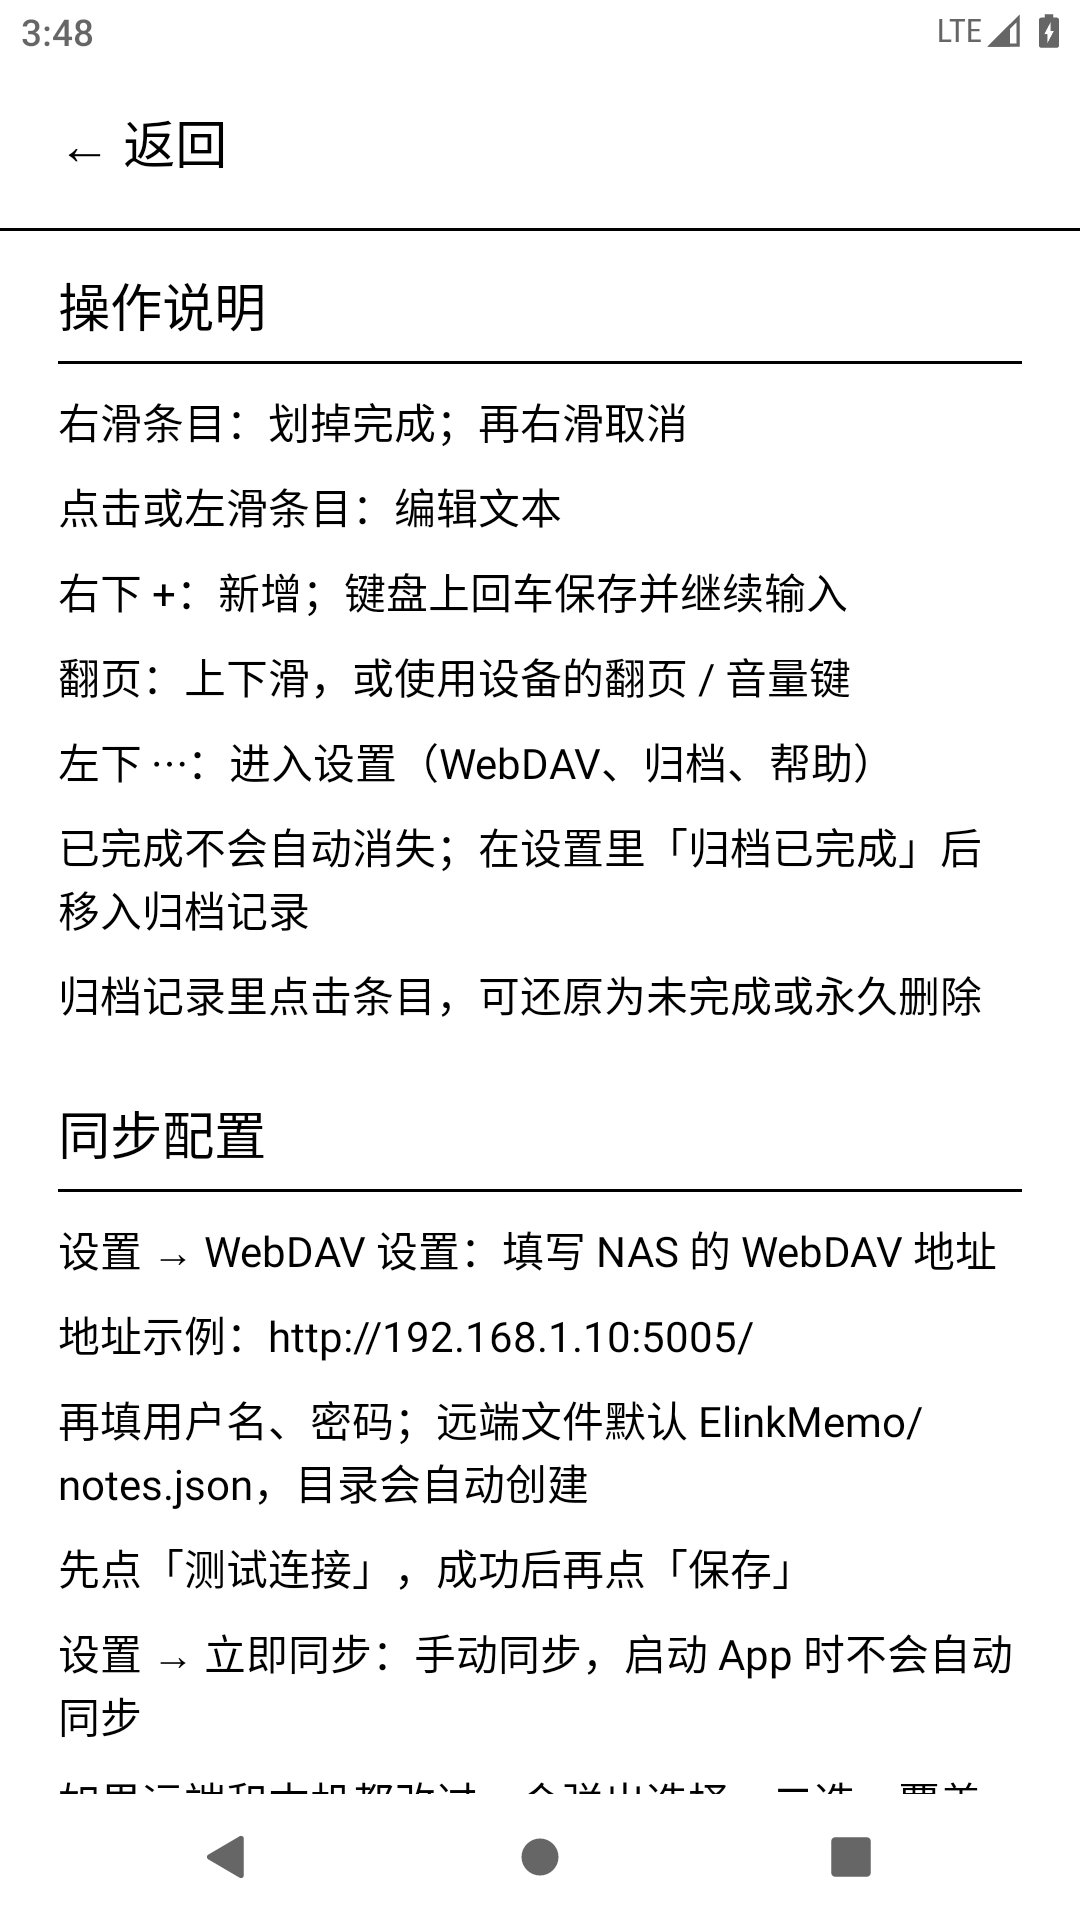
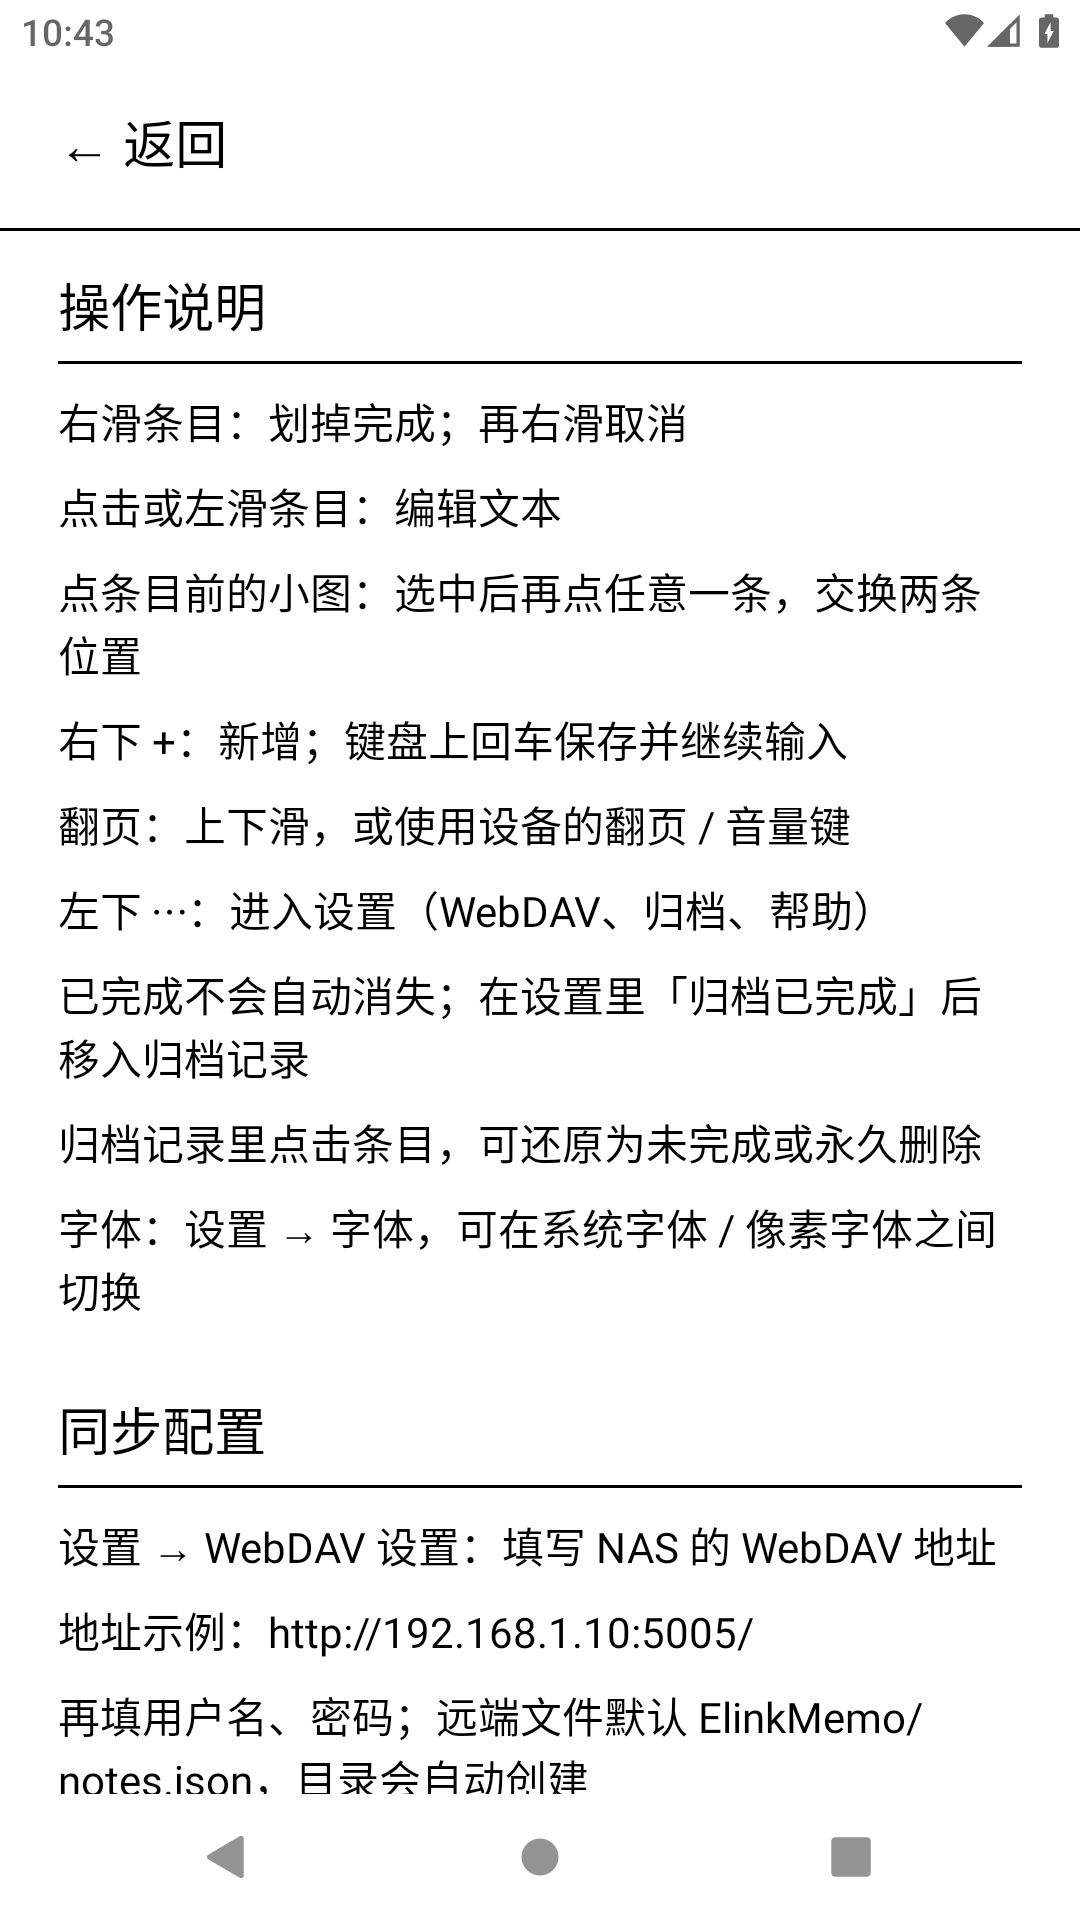
fix: 首启提示与帮助页补充小图换位操作说明（v0.10）

diff --git a/android/app/src/main/java/com/elinkmemo/app/SecondaryScreens.kt b/android/app/src/main/java/com/elinkmemo/app/SecondaryScreens.kt
@@ -202,8 +202,8 @@ fun HelpScreen(store: MemoStore) {
         ) {
             HelpSection("操作说明")
             HelpLine("右滑条目：划掉完成；再右滑取消")
-            HelpLine("点条目前的小图：选中后再点任意一条，交换两条位置")
             HelpLine("点击或左滑条目：编辑文本")
+            HelpLine("点条目前的小图：选中后再点任意一条，交换两条位置")
             HelpLine("右下 +：新增；键盘上回车保存并继续输入")
             HelpLine("翻页：上下滑，或使用设备的翻页 / 音量键")
             HelpLine("左下 ⋯：进入设置（WebDAV、归档、帮助）")

diff --git a/android/app/src/main/java/com/elinkmemo/app/Components.kt b/android/app/src/main/java/com/elinkmemo/app/Components.kt
@@ -482,6 +482,7 @@ fun HintOverlay() {
         ) {
             InkText("右滑划掉", 20.sp)
             InkText("点击编辑", 20.sp)
+            InkText("点小图选中 · 再点一条换位", 20.sp)
             InkText("上下滑或翻页键翻页", 20.sp)
         }
     }

diff --git a/docs/releases/v0.10.md b/docs/releases/v0.10.md
@@ -1,0 +1,22 @@
+## ElinkMemo v0.10
+
+墨水屏极简便签 / 待办。目标设备：文石 Boox Leaf2（7 英寸 / 300ppi / Android 11）。
+
+### 本版更新
+
+- 首次启动提示补充小图操作：「点小图选中 · 再点一条换位」
+- 帮助页「操作说明」按顺序整理：划掉 / 编辑 / 小图换位 / 新增 / 翻页 / 设置 / 归档 / 字体
+
+### 功能概览
+
+- 单页极简：无标题栏、固定 10 条/页分页、纯黑白零动画
+- 点小图选中、点另一条交换位置；右滑划掉、点击/左滑编辑、`+` 连续新增
+- 字体：系统字体 / 内嵌像素字体（Fusion Pixel Font）可切换
+- 手动 WebDAV 同步（单文件 `notes.json`，内网 NAS），冲突二选一
+
+### 安装
+
+1. 下载本页附件 `ElinkMemo-0.10-debug.apk`，拷到设备
+2. 点击安装；首次需允许「安装未知应用」。可覆盖安装旧版（同签名），数据保留
+
+debug 签名，可直接侧载。源码与文档见仓库 README。

diff --git a/docs/SPEC.md b/docs/SPEC.md
@@ -20,7 +20,7 @@
 - 页码仅在多页时显示（如 2/3）
 - 行：每条前 46×46 像素小图 + 单行文本，文本超长省略；行间 1px 纯黑分隔线（Q22 = B）；正文随行高等比适配（原型取行高 40%，85px 行高 → 34px），并按本机字体度量做光学垂直居中；APK 阶段换算为 sp 真机校准
 - 已完成：删除线 + 50% 灰（#808080），原地保留
-- 首启一次性提示「右滑划掉 · 点击编辑」，任何操作后永久消失
+- 首启一次性提示「右滑划掉 · 点击编辑 · 点小图换位 · 上下滑翻页」，任何操作后永久消失
 
 ### 二级页（整页切换、零动画，统一行高 64dp）
 - 设置：WebDAV 设置 › / 立即同步（上次时间·结果）/ 归档已完成 (n)（执行归档）/ 归档记录 (m) › / 字体（系统 / 像素） / 帮助 › / 关于 ›
